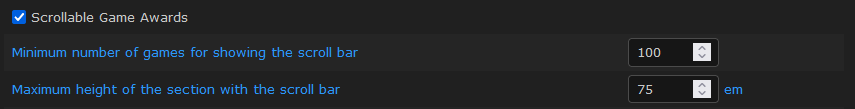
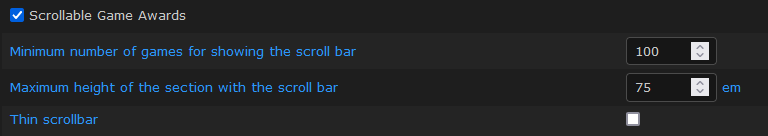
CustomizeProfile/ScrollableAwards: adds a settings to use a thin scrollbar

diff --git a/RA_CustomizeProfile.user.js b/RA_CustomizeProfile.user.js
@@ -1,7 +1,7 @@
 // ==UserScript==
 // @name         RA_CustomizeProfile
 // @namespace    RA
-// @version      1.2.1
+// @version      1.3
 // @description  Provides a set of options to customize the profile pages
 // @author       Mindhral
 // @homepage     https://github.com/Mindhral/RA_userscripts
@@ -55,6 +55,7 @@ const settingsHtml = `<div class="component">
     <tr><th colspan="2"><label><input id="scrollAwardsActive" type="checkbox"> Scrollable Game Awards</label></th></tr>
     <tr><td>Minimum number of games for showing the scroll bar</td><td><input id="scrollAwardsMinGames" type="number" style="width: 7em;"></td></tr>
     <tr><td>Maximum height of the section with the scroll bar</td><td><input id="scrollAwardsMaxHeight" type="number" min="10" style="width: 7em;"><span title="em: font-size of the element" style="cursor: help;"> em</span></td></tr>
+    <tr><td>Thin scrollbar</td><td><input id="scrollAwardsThinBar" type="checkbox"></td></tr>
   </tbody></table>
   <table class="table-highlight"><tbody>
     <tr><th colspan="2"><label><input id="markUnearnedActive" type="checkbox"> Mark Unearned Badges</label></th></tr>
@@ -264,7 +265,8 @@ const ScrollAwards = (() => {
     const DefaultSettings = {
         active: true,
         minGameCount:  100,
-        maxHeight: 75 // unit: em
+        maxHeight: 75, // unit: em
+        thinScrollbar: false
     };
 
     const Settings = loadSettings('scrollAwards', DefaultSettings);
@@ -278,14 +280,16 @@ const ScrollAwards = (() => {
         activeCheckbox.checked = Settings.active;
         const minGamesInput = document.getElementById('scrollAwardsMinGames');
         minGamesInput.value = Settings.minGameCount;
-
         const maxHeightInput = document.getElementById('scrollAwardsMaxHeight');
         maxHeightInput.value = Settings.maxHeight;
+        const thinScrollBarCheckbox = document.getElementById('scrollAwardsThinBar');
+        thinScrollBarCheckbox.checked = Settings.thinScrollbar;
 
         activeCheckbox.addEventListener('change', () => {
             Settings.active = activeCheckbox.checked;
             setRowVisibility(minGamesInput, Settings.active);
             setRowVisibility(maxHeightInput, Settings.active);
+            setRowVisibility(thinScrollBarCheckbox, Settings.active);
             saveSettings();
         });
         activeCheckbox.dispatchEvent(new Event('change'));
@@ -299,6 +303,10 @@ const ScrollAwards = (() => {
             Settings.maxHeight = parseInt(maxHeightInput.value);
             saveSettings();
         });
+        thinScrollBarCheckbox.addEventListener('change', () => {
+            Settings.thinScrollbar = thinScrollBarCheckbox.checked;
+            saveSettings();
+        });
     }
 
     function profilePage() {
@@ -309,6 +317,7 @@ const ScrollAwards = (() => {
         awardsDiv.style['overflow-y'] = 'auto';
         awardsDiv.style['max-height'] = Settings.maxHeight + 'em';
         awardsDiv.style['align-content'] = 'normal';
+        if (Settings.thinScrollbar) awardsDiv.style['scrollbar-width'] = 'thin';
         if (window.matchMedia('(min-width: 1280px)').matches) {
             // do nothing anymore
         } else if (window.matchMedia('(min-width: 1024px)').matches) {

diff --git a/README.md b/README.md
@@ -33,7 +33,7 @@ This makes it easier to scroll to the next sections, and combined with lazy load
 
 Events and site awards are not affected.
 
-The number of badges and the height which trigger the scroll bar apparition can be changed in a dedicated section on *Settings* page[^1].
+The number of badges and the height which trigger the scroll bar apparition can be changed on *Settings* page[^1]. A third settings allows to use a thin scrollbar, similar to the one used on mobile displays, on desktop browsers. The thin scrollbar is not supported on all browsers and can be harder to use with the mouse which is why it's inactive by default.
 
 ![scroll bar settings](/assets/ScrollProfileAwards_settings.png)
 
